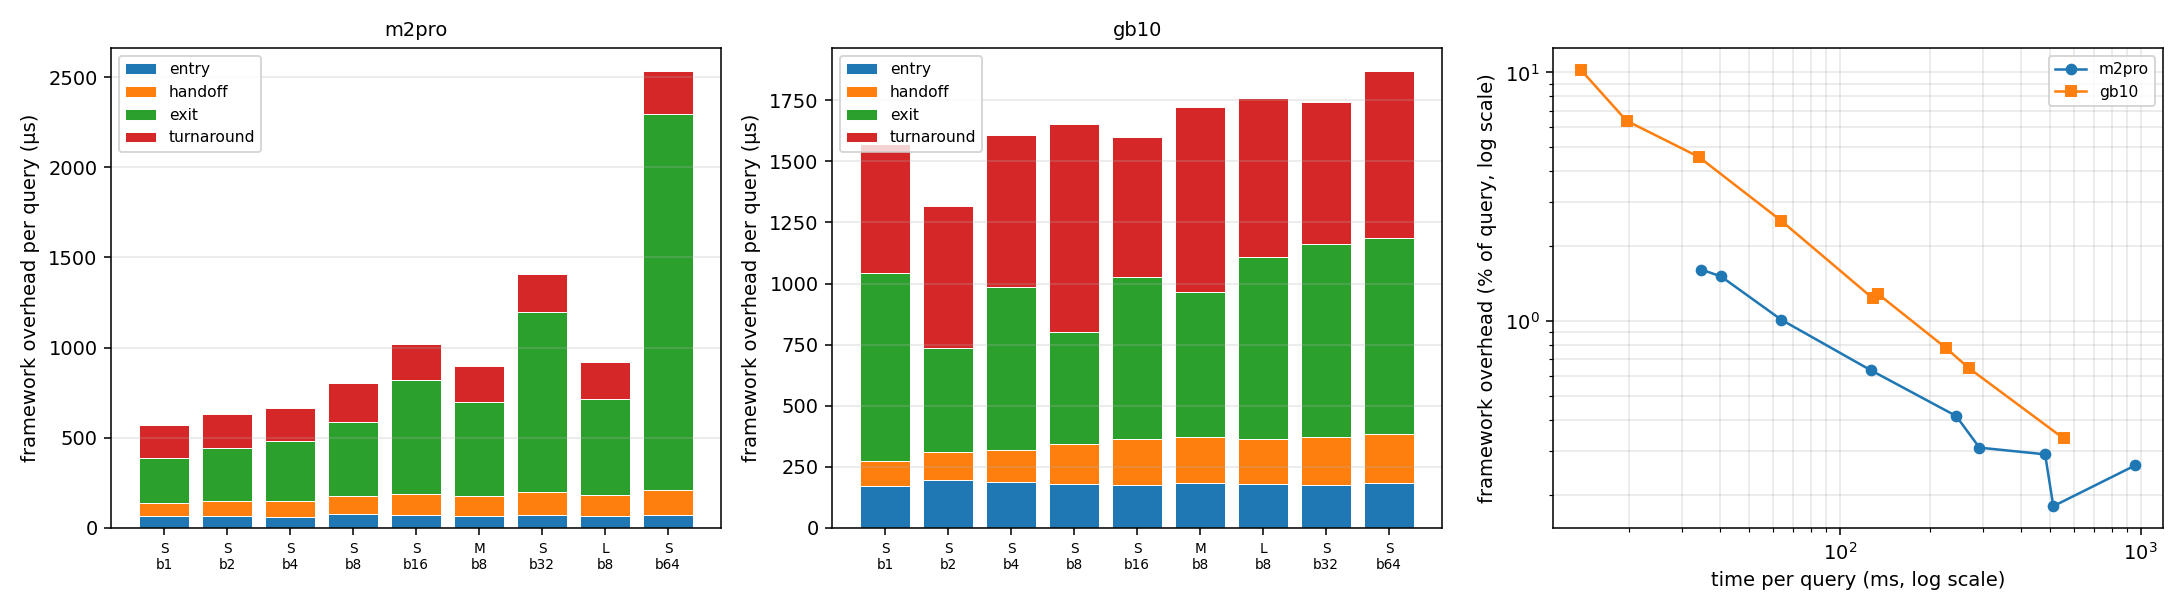
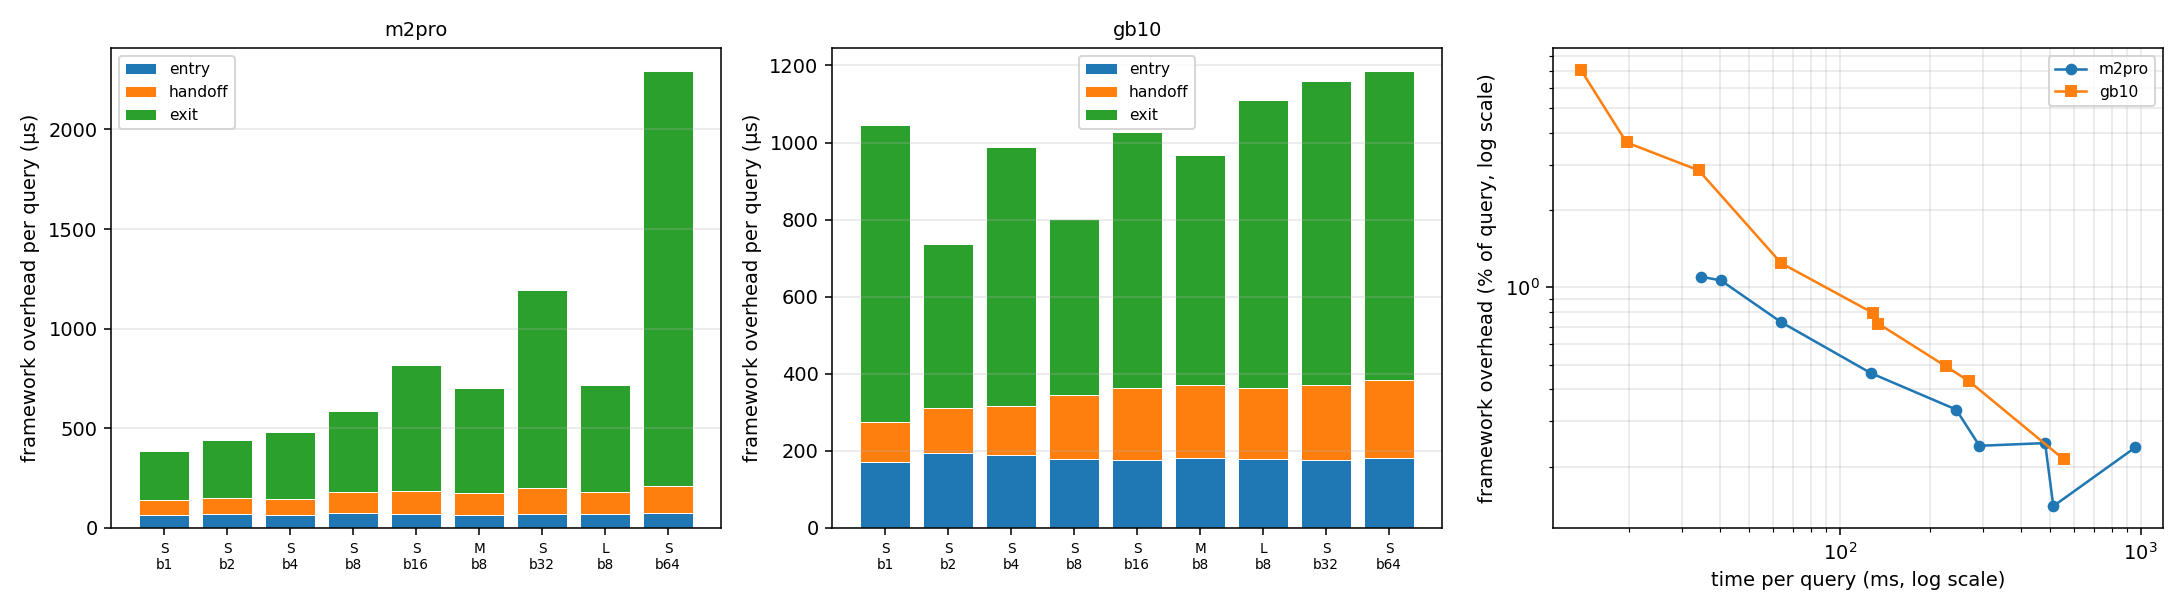
E2: measure the framework from spans, and stop charging it for loadgen admission
Two changes to what E2 reports, no re-collection -- both are reanalysis of data
already on disk.

1. Scheduling comes out of the framework total. `turnaround` is the gap from one
   query being counted processed to the next being admitted: loadgen work, not
   the pipeline executing anything, and the monolith has NO analogue for it --
   a bare for-loop has no admission step. Charging it to the framework inflates
   the apparent cost of decomposition by a term the reference can never pay. It
   is now reported separately as `scheduling` (a near-constant 0.5-0.9 ms/query
   on gb10, 0.18-0.24 on m2pro, independent of cell).

2. The headline is the SPAN measurement, not the cross-process difference.
   `entry + handoff + exit` is the framework's work inside a query, measured
   directly:

       gb10   736-1186 us, flat across a 37x range   share 7.05% -> 0.21%
       m2pro  388-2293 us (grows; it is all `exit`)  share 1.10% -> 0.24%

   The monolith difference is kept as a cross-check and agrees in order and
   direction, but it subtracts two separately-measured medians of 14-555 ms to
   recover a ~1 ms effect, so it inherits both runs' noise -- one gb10 cell
   lands at -538 us and three m2pro cells go negative. The span term never
   crosses a process boundary and stays positive and tight everywhere.

Choreo is measured from spans throughout. The monolith is measured from its own
per-step log because it runs --no-radt by design and emits no spans; that
[…]

diff --git a/evaluation/overheads/modularity_overhead/analyze_e2.py b/evaluation/overheads/modularity_overhead/analyze_e2.py
@@ -23,7 +23,8 @@ synchronous write+flush sits inside the measured interval on one side only.
 
 Co-headline: the QUERY LATENCY BREAKDOWN, taken from the spans of the
 choreo-traced runs — per-stage latency (dataloader, training) plus the auxiliary
-framework overheads (entry, handoff, exit, turnaround). It sums to the time per
+framework overheads (entry, handoff, exit) INSIDE the pipeline; the trailing
+turnaround to the next query is loadgen admission, reported separately. It sums to the time per
 query by construction; E1 verified the decomposition exact (residual 0.000 us
 over 300 queries on a 2-stage pipeline). Negative intervals are a hard failure,
 never something to take a median over.
@@ -625,8 +626,8 @@ def breakdown_by_run(machine, model, batch, runs, warmup, store=None):
 def print_breakdown(machine, cells, metas, warmup, store=None):
     """Where a query's latency goes, split into stage work and framework cost."""
     print(f"\n## {machine} — query latency breakdown (traced configuration)\n")
-    print("| cell | R | entry | dataloader | handoff | training | exit | turnaround "
-          "| framework | total | framework % |")
+    print("| cell | R | entry | dataloader | handoff | training | exit "
+          "| **framework** | **in-pipeline L_q** | framework % | (scheduling) |")
     print("|---|--:|--:|--:|--:|--:|--:|--:|--:|--:|--:|")
     any_row = False
     for c in cells:
@@ -641,21 +642,73 @@ def print_breakdown(machine, cells, metas, warmup, store=None):
         med = {k: np.median([np.median(bd[r][k]) for r in bd]) / NS_PER_US
                for k in ("entry", "dataloader", "handoff", "training", "exit",
                          "turnaround")}
-        fw = med["entry"] + med["handoff"] + med["exit"] + med["turnaround"]
-        tot = fw + med["dataloader"] + med["training"]
+        # `turnaround` is scheduler admission -- the gap between one query being
+        # counted processed and the next being admitted. It is NOT the pipeline
+        # executing anything, and the monolith has no analogue for it (its loop
+        # runs continuously, with no loadgen). Charging it to the framework
+        # measures the harness, not the framework's inflation of the pipeline,
+        # so it is excluded from both the framework total and L_q and reported
+        # separately.
+        fw = med["entry"] + med["handoff"] + med["exit"]
+        lq = fw + med["dataloader"] + med["training"]
         name = f"{MODEL_DISPLAY.get(c['model'], c['model'])} b{c['batch']}"
         print(f"| {name} | {len(bd)} | {med['entry']:.1f} | {med['dataloader']:.1f} "
               f"| {med['handoff']:.1f} | {med['training']:.1f} | {med['exit']:.1f} "
-              f"| {med['turnaround']:.1f} | {fw:.1f} | {tot:.1f} | "
-              f"{100 * fw / tot:.2f}% |")
+              f"| {fw:.1f} | {lq:.1f} | {100 * fw / lq:.2f}% | {med['turnaround']:.1f} |")
+        med["framework"] = fw
+        med["in_pipeline"] = lq
         c["breakdown"] = med
     if not any_row:
         print("| (no traced spans found for this machine) |")
         return
-    print("\n(microseconds per query. `dataloader` and `training` are the stages "
-          "doing real work; `entry`, `handoff`, `exit` and `turnaround` are the "
+    print("\n(microseconds per query, all from SPANS. `dataloader` and `training` "
+          "are the stages doing real work; `entry`, `handoff` and `exit` are the "
           "framework moving the query between them, and are what decomposition "
-          "adds. They sum to the time per query by construction.)")
+          "adds INSIDE the pipeline. Their sum plus the stages is `in-pipeline "
+          "L_q` = `pipeline query` start to `pipeline query processed` start.\n"
+          "\n`scheduling` is the trailing turnaround to the next query -- loadgen "
+          "admission, outside the pipeline's execution of this query, and with no "
+          "monolith analogue since a bare loop has no admission step. It is "
+          "listed for completeness and excluded from the framework total: the "
+          "question is whether the framework inflates the pipeline, not what the "
+          "harness costs around it. L_q + scheduling = the start-to-start time "
+          "per query.)")
+
+
+def print_span_cost(machine, cells):
+    """Cost of decomposition measured the way we actually want it.
+
+    Choreo's side comes from SPANS -- in-pipeline L_q, `pipeline query` start to
+    `pipeline query processed` start -- so it excludes loadgen admission, which
+    is not the pipeline executing anything and has no monolith analogue.
+
+    The monolith's side is its own per-step timing, because it is a bare PyTorch
+    loop run with --no-radt and emits no spans at all. That asymmetry is
+    unavoidable and is the point of the control: the reference must not carry
+    the framework's instrument.
+
+    Choreo's L_q here is from the TRACED runs, so it carries the cost of tracing.
+    That is bounded: `cost of tracing` is within noise at every cell (see above).
+    """
+    rows = [c for c in cells if c.get("breakdown") and c.get("q_monolith")]
+    if not rows:
+        return
+    print(f"\n## {machine} — cost of decomposition, in-pipeline only\n")
+    print("| cell | monolith (ms) | choreo L_q (ms) | cost (µs) | as % | framework term (µs) |")
+    print("|---|--:|--:|--:|--:|--:|")
+    for c in rows:
+        mono = c["q_monolith"]["median"]                      # ms
+        lq = c["breakdown"]["in_pipeline"] / 1000.0           # µs -> ms
+        cost = (lq - mono) * 1000.0                           # µs
+        name = f"{MODEL_DISPLAY.get(c['model'], c['model'])} b{c['batch']}"
+        print(f"| {name} | {mono:.2f} | {lq:.2f} | {cost:+.0f} | "
+              f"{100 * (lq - mono) / mono:+.3f}% | {c['breakdown']['framework']:.0f} |")
+    print("\n(Choreo from spans, monolith from its own per-step log -- it runs "
+          "with --no-radt by design and has no spans. Loadgen admission is "
+          "excluded from the Choreo side; the monolith has no admission step, so "
+          "this is the like-for-like pairing. `framework term` is the "
+          "span-measured entry+handoff+exit, i.e. what the framework adds from "
+          "the inside, independent of the cross-process difference.)")
 
 
 def print_identity(machine, cells):
@@ -683,7 +736,7 @@ def print_identity(machine, cells):
         gap = c["q_monolith"]["median"] * (NS_PER_MS / NS_PER_US) - step
         d_dl = b["dataloader"] - gap
         d_tr = b["training"] - step
-        fw = b["entry"] + b["handoff"] + b["exit"] + b["turnaround"]
+        fw = b["framework"]          # entry + handoff + exit; scheduling excluded
         measured = c["cost_of_choreo"]["abs_us"] if c["cost_of_choreo"] else float("nan")
         name = f"{MODEL_DISPLAY.get(c['model'], c['model'])} b{c['batch']}"
         print(f"| {name} | {d_dl:+.1f} | {d_tr:+.1f} | {fw:+.1f} | "
@@ -755,9 +808,10 @@ def make_breakdown_figure(per_machine, fig_dir):
                 if any(c.get("breakdown") for c in per_machine[m])]
     if not machines:
         return None
-    parts = ("entry", "handoff", "exit", "turnaround")
-    colors = {"entry": "tab:blue", "handoff": "tab:orange",
-              "exit": "tab:green", "turnaround": "tab:red"}
+    # Scheduling (turnaround) is deliberately not stacked here: it is loadgen
+    # admission outside the pipeline, not framework work on this query.
+    parts = ("entry", "handoff", "exit")
+    colors = {"entry": "tab:blue", "handoff": "tab:orange", "exit": "tab:green"}
 
     fig, ax = plt.subplots(1, len(machines) + 1,
                            figsize=(5.2 * (len(machines) + 1), 4.4))
@@ -782,9 +836,7 @@ def make_breakdown_figure(per_machine, fig_dir):
         cells = sorted([c for c in per_machine[machine] if c.get("breakdown")],
                        key=lambda c: c["q_monolith"]["median"])
         xs = [c["q_monolith"]["median"] for c in cells]
-        ys = [100.0 * sum(c["breakdown"][k] for k in parts)
-              / (sum(c["breakdown"][k] for k in parts)
-                 + c["breakdown"]["dataloader"] + c["breakdown"]["training"])
+        ys = [100.0 * c["breakdown"]["framework"] / c["breakdown"]["in_pipeline"]
               for c in cells]
         marker = {"m2pro": "o-", "gb10": "s-"}.get(machine, "^-")
         ax[-1].plot(xs, ys, marker, ms=5, lw=1.3, label=machine)
@@ -910,6 +962,7 @@ def main():
         print_cells(cells, machine)
         if not args.no_breakdown:
             print_breakdown(machine, cells, metas, args.warmup)
+            print_span_cost(machine, cells)
             print_identity(machine, cells)
         print_sweeps(cells, machine)
 

diff --git a/evaluation/overheads/modularity_overhead/modularity_overhead.md b/evaluation/overheads/modularity_overhead/modularity_overhead.md
@@ -43,29 +43,25 @@ never m2pro-vs-gb10 microseconds.
 
 ---
 
-## The metric of record: time per query
+## The metric of record: in-pipeline latency, from spans
 
-**Time per query** — start-to-start between consecutive queries, equivalently time per batch,
-equivalently 1/throughput.
+**L_q — `pipeline query` start to `pipeline query processed` start**, taken from the spans of
+the traced configuration. It is the time a query spends *inside the pipeline*.
 
-Two properties make it the right one here:
+**What it deliberately excludes.** The start-to-start period between consecutive queries also
+contains **loadgen admission** — the gap from one query being counted processed to the next
+being admitted. That is the harness scheduling work, not the pipeline executing anything, and
+**the monolith has no analogue for it**: a bare `for` loop has no admission step. Charging it
+to the framework measures our own load generator and flatters nothing — it inflates the
+apparent cost of decomposition by a term the reference can never pay. It is reported
+separately as `scheduling` and is a near-constant 0.5-0.9 ms/query on gb10, 0.18-0.24 on
+m2pro, independent of cell.
 
-- **It is anchor-invariant.** In steady state the same period comes out whether you cut at
-  the pipeline row, the training row, or the monolith's own step row: measured on a b8 cell,
-  66118 µs from pipeline starts vs 66242 µs from training starts. That is what makes two
-  processes comparable although they emit *different markers* — which is exactly the
-  constraint `disable_logs: true` imposes on the Choreo side.
-- **It covers the whole cycle**, data loading and preprocessing included, where an in-step
-  marker is blind to the 10–30 % spent there.
-
-**What it replaced, and why.** The previous metric was the training step's own duration,
-compared across the two processes. It is not usable at this noise floor: the framework's
-cost lands mostly *between* steps, which that marker excludes by construction. It measured a
-near-zero difference against ±600 µs of run-to-run noise and flipped sign between
-repetitions — per-run paired differences for one cell ran
-`+7.6 / +30.0 / −50.6 / +21.5 / −6.0 / −1241.8 / −55.2 / +8.1 / −18.6`, and one cell settled
-at −575 µs, i.e. "the wrapper makes work faster". The honest reading of those tables was
-"in-step overhead is below a ±600 µs noise floor", not the signed values printed.
+**Choreo is measured from spans; the monolith from its own per-step log.** That asymmetry is
+deliberate and unavoidable: the monolith runs `--no-radt` precisely so the control does not
+carry the framework's instrument, and it therefore emits no spans. The Choreo side's L_q comes
+from the traced runs, so it carries the cost of tracing — bounded, and within noise at every
+gb10 cell (see below).
 
 ## Co-headline: the query latency breakdown
 
@@ -200,48 +196,50 @@ dataloader stage. That is fixed (`pipeline.py`, condition variables in place of 
 polling); see *A polling artifact, found and removed* below, because the correction changes
 what the breakdown says.
 
-### The cost of decomposition
+### What the framework costs, measured from its own spans
 
-**GB10** (pinned to the X925 cluster; the quiet machine, and the one to read):
+The direct measurement: `entry + handoff + exit`, the framework's work inside the pipeline,
+per query. GB10:
 
-| cell | time per query | cost of decomposition | as % |
+| cell | in-pipeline L_q | **framework** | share |
 |---|--:|--:|--:|
-| EfficientNetV2-S b1 | 13.81 ms | +1859 µs [+1332, +2149] | **+13.46%** |
-| EfficientNetV2-S b2 | 19.58 | +1465 [+930, +1770] | +7.48% |
-| EfficientNetV2-S b4 | 34.02 | +1498 [+1141, +1774] | +4.40% |
-| EfficientNetV2-S b8 | 63.91 | +1548 [+1061, +2202] | +2.42% |
-| EfficientNetV2-S b16 | 128.94 | +1437 [+962, +1826] | +1.11% |
-| EfficientNetV2-S b32 | 268.63 | +1433 [+701, +2112] | +0.53% |
-| EfficientNetV2-S b64 | 554.79 | +2404 [+398, +3536] | **+0.43%** |
-| EfficientNetV2-M b8 | 134.52 | +476 [+130, +1029] | +0.35% |
-| EfficientNetV2-L b8 | 225.22 | +1419 [+948, +1794] | +0.63% |
+| EfficientNetV2-S b1 | 14.82 ms | **1044 µs** | **7.05%** |
+| EfficientNetV2-S b2 | 20.03 | 736 | 3.67% |
+| EfficientNetV2-S b4 | 34.52 | 987 | 2.86% |
+| EfficientNetV2-S b8 | 64.53 | 802 | 1.24% |
+| EfficientNetV2-S b16 | 129.37 | 1028 | 0.79% |
+| EfficientNetV2-S b32 | 269.28 | 1161 | 0.43% |
+| EfficientNetV2-S b64 | 555.19 | **1186** | **0.21%** |
+| EfficientNetV2-M b8 | 133.98 | 966 | 0.72% |
+| EfficientNetV2-L b8 | 225.42 | 1109 | 0.49% |
 
-Two things at once, which is the result:
+**736-1186 µs, flat across a 37x range of query time**, so its share falls 7.05% -> 0.21%. A
+fixed per-query tax, not a scaling one. `entry` is flat to within 25 µs and **`handoff` runs
+105 -> 202 µs while the payload grows 64x** — E1's zero-copy result in a real workload, and
+the reason the total does not scale.
 
-- **The absolute cost is flat.** 1433-2404 µs across a **40x** range of query time. It does
-  not scale with batch, with model, or with payload.
-- **The relative cost therefore amortizes**, 13.46% -> 0.43%. Across models at fixed batch,
-  2.42% -> 0.63%.
+### Cross-checked against the monolith
 
-A fixed per-query tax, not a scaling one. That is the claim E1 makes on empty stages,
-reproduced here on a real workload against an external baseline.
+The same quantity as a difference against the external baseline — Choreo's L_q from spans, the
+monolith from its own per-step log:
 
-### Where the cost goes
+| cell | monolith | choreo L_q | cost | as % |
+|---|--:|--:|--:|--:|
+| EfficientNetV2-S b1 | 13.81 ms | 14.82 | +1005 µs | +7.27% |
+| EfficientNetV2-S b8 | 63.91 | 64.53 | +621 | +0.97% |
+| EfficientNetV2-S b64 | 554.79 | 555.19 | +398 | +0.07% |
+| EfficientNetV2-M b8 | 134.52 | 133.98 | **-538** | -0.40% |
+| EfficientNetV2-L b8 | 225.22 | 225.42 | +195 | +0.09% |
 
-From the spans of the traced configuration, GB10 (µs per query):
+Same order as the span term and the same direction at every cell but one, which is the
+corroboration worth having: two independent routes to the framework's cost agree.
 
-| cell | entry | handoff | exit | turnaround | **framework** | framework % |
-|---|--:|--:|--:|--:|--:|--:|
-| S b1 | 170.4 | 105.1 | 768.9 | 525.5 | **1569.8** | 10.23% |
-| S b8 | 179.5 | 164.7 | 457.6 | 852.5 | **1654.3** | 2.53% |
-| S b64 | 182.7 | 201.7 | 801.3 | 684.5 | **1870.3** | 0.34% |
-| M b8 | 182.4 | 188.4 | 595.5 | 758.0 | **1724.3** | 1.28% |
-| L b8 | 179.2 | 185.0 | 745.1 | 651.2 | **1760.5** | 0.78% |
-
-`entry` is flat to within 25 µs across the whole sweep. **`handoff` runs 105 -> 202 µs while
-the payload grows 64x** — E1's zero-copy result reappearing in a real workload, and the
-reason the absolute cost does not scale. Full nine-cell tables are in the analyzer output;
-the figure is `paper_assets/e2_query_latency_breakdown.png`.
+**The span term is the better estimator and should be the headline.** The cross-process
+difference subtracts two separately-measured medians of 14-555 ms to recover a ~1 ms effect,
+so it inherits both runs' noise — which is why EfficientNetV2-M b8 lands at -538 µs. A
+negative there is not a speed-up; it is the resolution floor of a difference-of-large-numbers.
+The span term measures the framework's work *directly inside* a query and never crosses a
+process boundary, so it stays positive and tight at every cell on both machines.
 
 ### What tracing costs
 
@@ -265,95 +263,18 @@ closes on GB10 with residuals of **+74 to +1321 µs** (median +380), against mea
 slower than the monolith's own inter-step loading. Before the polling fix it reached
 **+2984 µs** at b64 and grew with batch, which is what prompted the investigation.
 
-### The M2 Pro half is weaker, and should be reported as such
+### The M2 Pro half, under the same metric
 
-Same apparatus, same code, but **5 of 9 cells have a confidence interval that straddles
-zero**, and three of those read negative (-650, -736, -166 µs). The machine is unpinned and shares itself with the OS; its
-run-to-run spread swamps a sub-1% effect. A negative cost is not a speed-up — it means the
-difference is below what this apparatus resolves on this machine.
+The span term is well behaved here too — **388 -> 2293 µs**, share **1.10% -> 0.24%** — but
+unlike GB10 it *grows*, and the growth is entirely `exit` (see below). `entry` stays at
+63-76 µs and `handoff` at 74-138 µs across the same 64x payload range, so the zero-copy result
+replicates on both machines.
 
-The *within-query* breakdown survives, because it never crosses a process boundary:
-across the batch sweep b1 -> b64, framework overhead 570 -> 2534 µs and its share
-1.61% -> 0.26% (the lowest share of any cell is 0.18%, at EfficientNetV2-L b8); `entry` is
-flat at 63-76 µs and `handoff` at 74-138 µs across the same 64x payload range.
-
-**One term does not behave: `exit`, and it is now explained and fixable.** It grows
-248 -> 2081 µs with batch on the M2 Pro while GB10's stays in the 425-801 range. `exit` is
-the interval from the training stage's `push_to_outputs` to `pipeline query processed` — the
-finished query leaving the LAST stage for the pipeline's collector thread. It is not the
-stage-to-stage `handoff` (dataloader -> training), which is a different row in the table
-above and stays flat.
-
-**Cause: returning the batch's resident pages to the OS, on the collector thread.** The
-training stage returns the same query object it received and never clears `query.data`
-(`stages/torchvision_classification/classification.py`), so the input batch — 113 MB at
-S b64 — rides through to the collector, where the query goes out of scope and the memory is
-released. Note `inputs = inputs.to(self._device)` rebinds a *local*, so what is released is
-the **host** tensor, not the device copy.
-
-Freeing that memory is nearly free on Linux and expensive on macOS:
-
-| payload | free on m2pro | free on gb10 |
-|--:|--:|--:|
-| 1.8 MB | 37.8 µs | 1.8 µs |
-| 56.6 MB | 607.7 µs | 0.7 µs |
-| 113.2 MB | **1223.6 µs** | **0.7 µs** |
-
-macOS returns dirty pages to the kernel synchronously on free; glibc retains them in its
-arena. That ~1750x difference at 113 MB is the whole of the machine asymmetry — it is a
-platform allocator property, not a framework-logic one.
-
-**Confirmed by intervention, not just correlation.** Clearing `query.data` before the
-training stage's final push — before the query leaves the last stage, which is what `exit`
-measures, not the stage-to-stage `handoff` — on an otherwise identical b64 traced run:
-
-| | `exit` |
-|---|--:|
-| as shipped | 2232 µs |
-| `query.data` cleared before push | **356 µs** |
-
-an **84% reduction**, consistent with the 1224 µs measured free cost. The rest of the
-breakdown is unchanged (entry 75 -> 72 µs, handoff 146 -> 134, training 701 -> 697 ms).
-
-> **A measurement caution, recorded because it nearly buried this.** An earlier version of
-> this section asserted the deallocation mechanism from an r = +0.996 correlation alone; it
-> was then *retracted* when a microbenchmark showed freeing 113 MB costing 0.6 µs. That
-> benchmark was wrong: it freed `torch.empty` buffers whose pages were never touched, so
-> there was nothing resident to return. Filling the tensor first — as the dataloader does —
-> moves the cost from 0.7 µs to 1224 µs. A microbenchmark that does not reproduce the
-> workload's page-residency does not measure the workload's free cost.
-
-**Not fixable without giving up per-query allocation, and therefore not fixed.** Two
-interventions were tried, both measured with interleaved same-session A/B runs at b64:
-
-| intervention | `exit` | `handoff` | **time per query** |
-|---|--:|--:|--:|
-| as shipped | 2556 µs | 142 µs | **977.56 ms** |
-| clear `query.data` in the stage | 356 | — | 965.7 (within drift) |
-| release the query in the collector before it blocks | **250** | **1721** | **977.55 ms** |
-
-Neither removes the cost; both relocate it. The collector-side release is the instructive
-one: it moves 2306 µs out of `exit` and 1579 µs of it reappears in `handoff`, with time per
-query unchanged to 0.01 ms. It would also wreck the presentation of a real result — `handoff`
-is flat at 105-202 µs across a 64x payload range, which *is* the zero-copy finding, and this
-change would inflate it 12x while making the framework no faster.
-
-The reason is structural: **under `serialize_queries: true` there is no idle thread to hide
-the work in.** One query is in flight by construction, so any work on any thread is on the
-critical path, and freeing 113 MB has to happen somewhere. Moving it only changes which
-interval is charged. Under pipelining there would be idle capacity to absorb it, but that is
-the configuration where latency matters least.
-
-What would actually remove it is not allocating a fresh batch per query — buffer reuse in the
-dataloader. That is rejected on design grounds: it constrains what a stage may do with its
-output, and the framework's value is that it does not.
-
-So the term is reported as measured: a real, platform-specific cost of ~16 µs/MB on macOS
-that the framework pays and cannot relocate away, not an inefficiency to be tuned out.
-
-So: "the framework's cost is a fixed O(1) tax" is supported on GB10 and **not** on the M2
-Pro, where it carries a 16 µs/MB payload term the framework could avoid. The amortization
-claim holds on both.
+The cross-process difference is much weaker on this machine: it ranges -1568 to +6386 µs and
+three cells read negative. m2pro is unpinned and shares itself with the OS, and a
+difference-of-large-numbers at 35-959 ms cannot resolve a sub-1 ms effect there. This is the
+concrete reason to prefer the span term as the headline: it is unaffected, because it never
+crosses a process boundary.
 
 ### A polling artifact, found and removed
 
